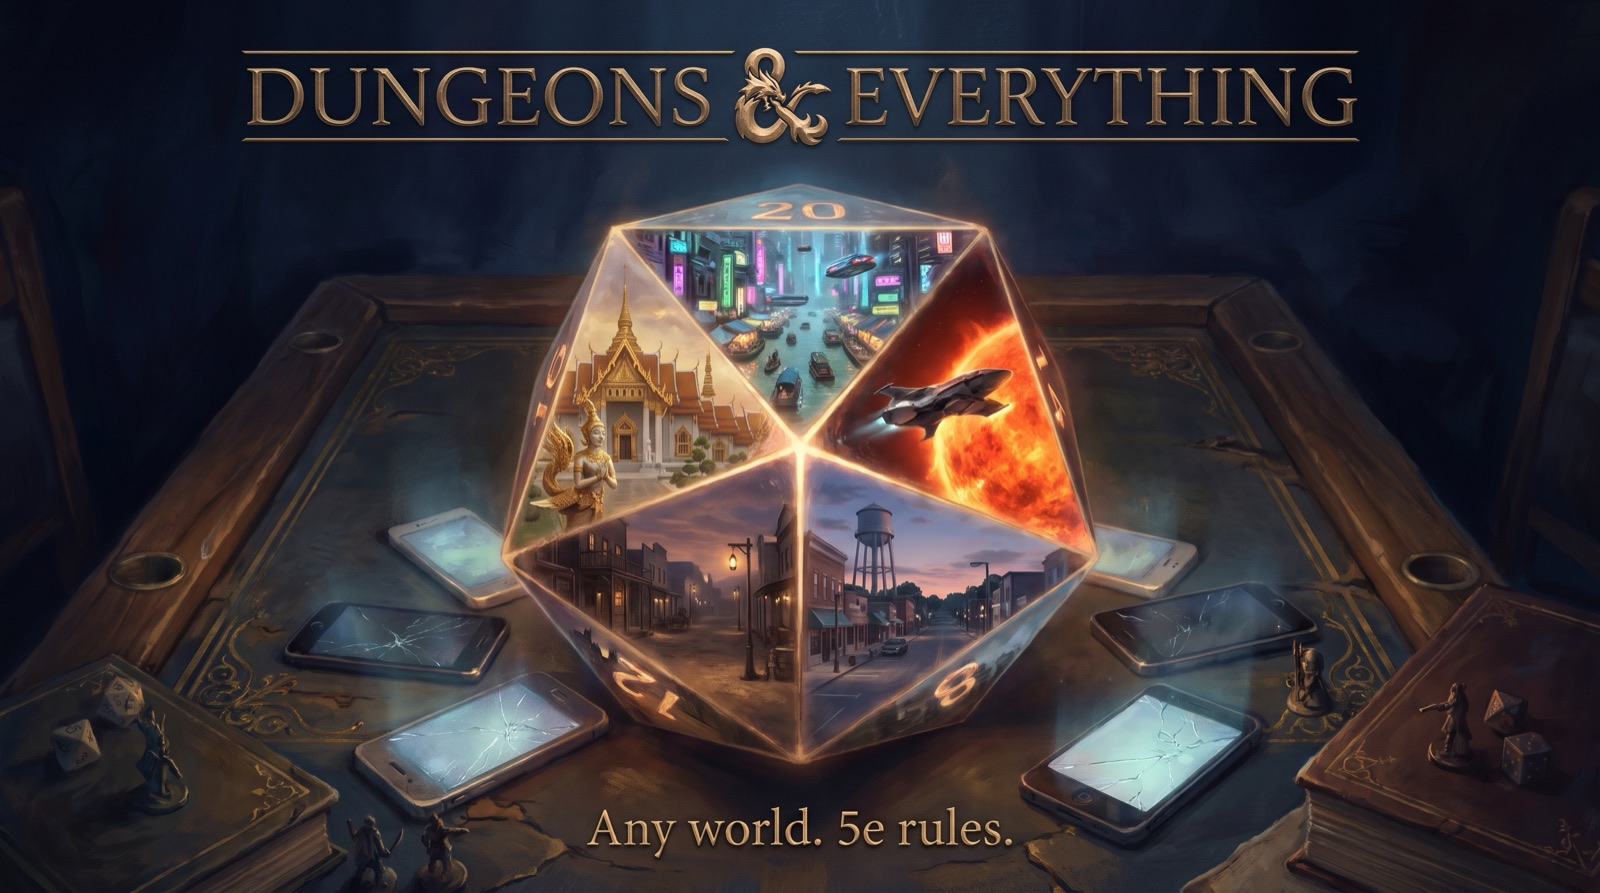
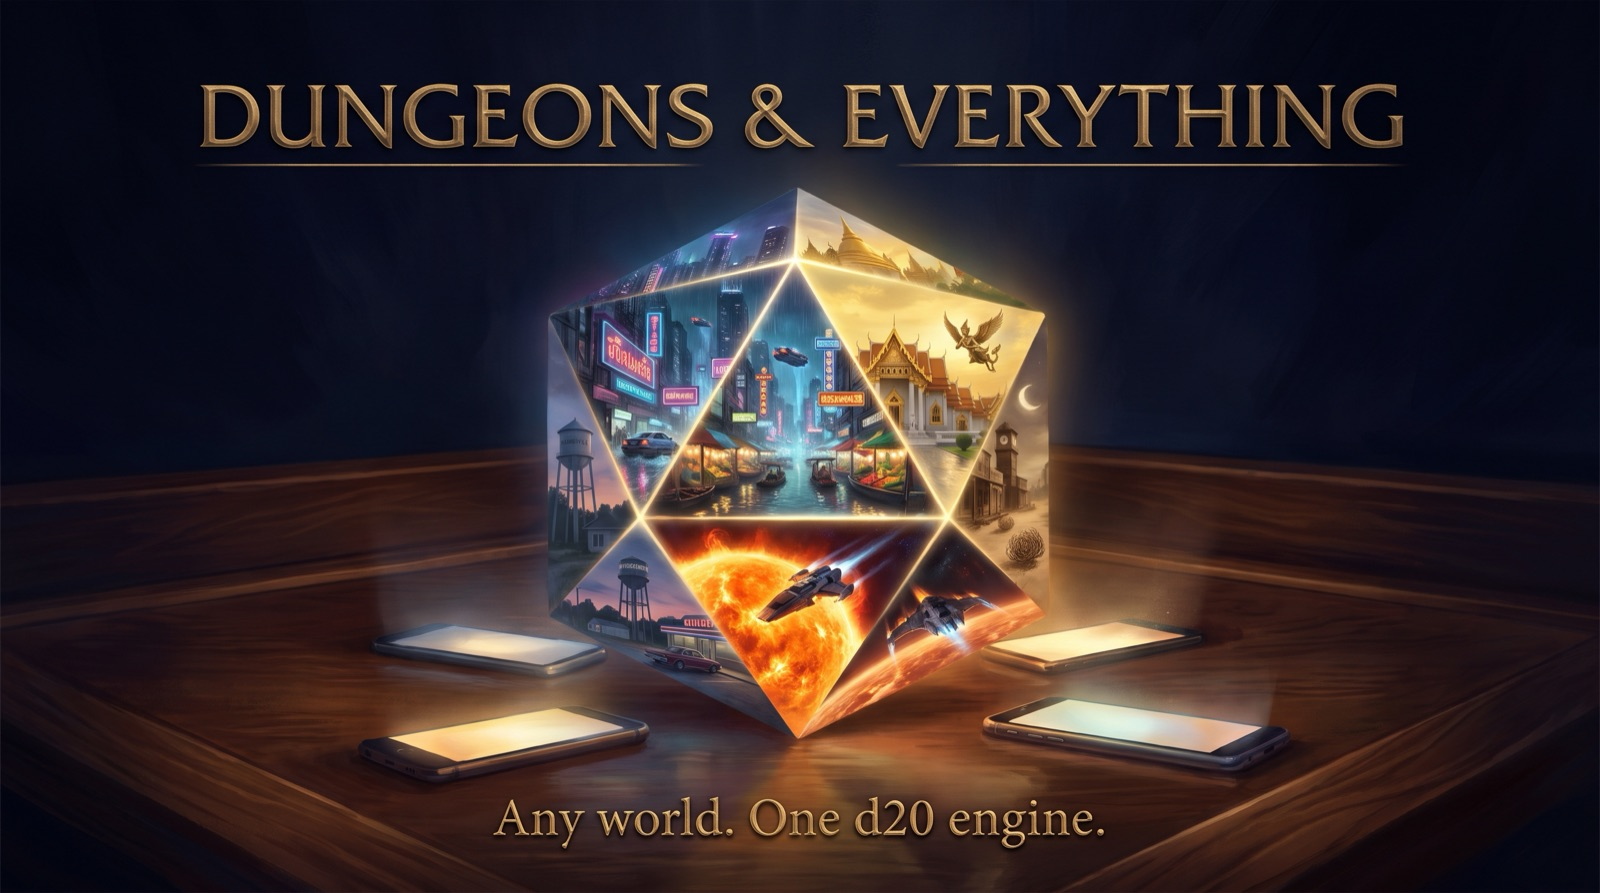
docs: describe the rules as the DnE engine (5e SRD core); new cover; fix(install): native Windows paths in rules blocks

diff --git a/install.py b/install.py
@@ -48,8 +48,8 @@ AGENTS = {
 def rules_block() -> str:
     return (f"{START}\n## Dungeons & Everything (tabletop Game Master)\n"
             f"When the user asks to play Dungeons & Everything, run a tabletop RPG campaign, or types `/dne …`,\n"
-            f"read `{SKILL}/SKILL.md` and follow it exactly. Wherever it writes `${{CLAUDE_SKILL_DIR}}`, use `{SKILL}`.\n"
-            f"Command procedures: `{SKILL}/SKILL-commands.md`; script reference: `{SKILL}/SKILL-scripts.md`.\n{END}\n")
+            f"read `{SKILL / 'SKILL.md'}` and follow it exactly. Wherever it writes `${{CLAUDE_SKILL_DIR}}`, use `{SKILL}`.\n"
+            f"Command procedures: `{SKILL / 'SKILL-commands.md'}`; script reference: `{SKILL / 'SKILL-scripts.md'}`.\n{END}\n")
 
 
 def _strip_block(text: str) -> str:

diff --git a/README.md b/README.md
@@ -16,7 +16,7 @@
 
 ---
 
-**Dungeons & Everything** is a Game Master skill for **any AI coding agent** — Claude Code, Codex, Gemini CLI, Antigravity, opencode, Copilot, Cursor and more. You tell it what world you want to play in — a survivor colony hiding from a rogue AI, a derelict starship, a noir megacity, a classic dungeon — and it builds that world's whole rulebook: who the people are, what jobs they can have, what powers exist, what the gear costs, and what hunts them in the dark. Underneath, every roll is plain **D&D 5e**, so combat, levelling and balance just work.
+**Dungeons & Everything** is a Game Master skill for **any AI coding agent** — Claude Code, Codex, Gemini CLI, Antigravity, opencode, Copilot, Cursor and more. You tell it what world you want to play in — a survivor colony hiding from a rogue AI, a derelict starship, a noir megacity, a classic dungeon — and it builds that world's whole rulebook: who the people are, what jobs they can have, what powers exist, what the gear costs, and what hunts them in the dark. Underneath, every roll runs on the **DnE engine** — a d20 engine with the 5e SRD at its core — so combat, levelling and balance just work, and anything written for 5e still fits.
 
 Campaigns persist for as long as you keep playing. Your TV becomes the story screen; every player's phone becomes their controller.
 
@@ -26,12 +26,12 @@ Campaigns persist for as long as you keep playing. Your TV becomes the story scr
 
 ## Why
 
-Tabletop rules engines are great. Being locked into elves and fireballs is not. Dungeons & Everything keeps the part of 5e that makes a game fair — ability scores, proficiency, hit dice, spell slots, challenge ratings, XP budgets — and lets everything on top of it be whatever your table imagines.
+Tabletop rules engines are great. Being locked into elves and fireballs is not. The DnE engine keeps the part of the 5e SRD that makes a game fair — ability scores, proficiency, hit dice, spell slots, challenge ratings, XP budgets — adds optional rules from other great tables, and lets everything on top of it be whatever your table imagines.
 
 - **Any genre.** Sci-fi, post-apocalyptic, horror, mystery, cyberpunk, western, mythic — or classic fantasy.
-- **A real rulebook per world.** Origins, classes, subclasses, backgrounds, powers, weapons, armor, currency and monsters, all generated for the world and all mechanically legal 5e.
+- **A real rulebook per world.** Origins, classes, subclasses, backgrounds, powers, weapons, armor, currency and monsters, all generated for the world and all mechanically sound on the engine's 5e SRD core.
 - **The world speaks its own language.** Mechanics "run protocols" instead of casting spells, the party "goes into lockdown" instead of taking a long rest, and the skill list says *Systems* instead of *Arcana*.
-- **The best ideas from other tables.** Close misses that succeed at a price, playbook moves and party bonds from Powered by the Apocalypse; tech levels, flaws and reaction rolls from GURPS; degrees of success, Hero Points and Victory Points from Pathfinder 2e — all rebuilt on 5e maths.
+- **The best ideas from other tables.** Close misses that succeed at a price, playbook moves and party bonds from Powered by the Apocalypse; tech levels, flaws and reaction rolls from GURPS; degrees of success, Hero Points and Victory Points from Pathfinder 2e — all rebuilt on the engine's d20 core, each one switchable per campaign.
 - **A Game Master who remembers.** Factions move between sessions, NPCs hold grudges, and a three-act story arc bends around what the players actually do.
 - **Built for the couch.** A cinematic TV display, phones as controllers, spoken narration, Thai and full Unicode support.
 
@@ -62,7 +62,7 @@ The Game Master turns that into `worldkit.json` inside the campaign folder:
 
 Every kit is validated before play, so no monster has the wrong XP and no class has a broken chassis, and every monster is checked against what SRD monsters of its CR typically have. From then on the character builder, the rules lookup, the encounter generator and the table display all read from your world first. Names can be in any script — Thai included.
 
-Say **"classic fantasy"** instead and you get traditional D&D on the bundled 5e SRD.
+Say **"classic fantasy"** instead and you get traditional sword-and-sorcery on the bundled 5e SRD.
 
 The full EDEN kit is at [`skills/dne/templates/worldkit.example.json`](skills/dne/templates/worldkit.example.json).
 
@@ -70,7 +70,7 @@ The full EDEN kit is at [`skills/dne/templates/worldkit.example.json`](skills/dn
 
 <img src="docs/images/rules.jpg" alt="A game master's table: a d20 beside five glowing tokens from red to gold, a chase track, bond and flaw cards, a med kit, hero coins and a notebook of monster numbers" width="100%">
 
-Optional layers borrowed from other games and rebuilt for 5e. They're on the table, not in your way: switch them per campaign.
+Optional layers borrowed from other games and rebuilt on the DnE engine's d20 core. They're on the table, not in your way: switch them per campaign.
 
 | Roll vs DC | Outcome | What happens |
 |---|---|---|
@@ -200,7 +200,7 @@ More detail: [`skills/dne/display/README.md`](skills/dne/display/README.md).
 - **A story with a shape.** Each campaign commits to a three-act arc defined by consequences rather than scripted events, so the story bends to player choices without losing its direction.
 - **NPCs who are people.** Every named character has a motive, a secret, a voice and relationships, and they remember how they were treated.
 - **Fights that make sense.** Encounters are balanced from the world's own bestiary. Enemies fight to their role, retreat when broken, and never conjure resources they don't have. A tactical grid appears only when a fight needs one.
-- **5e 2014 or 2024.** Choose the rules edition per campaign.
+- **SRD 5.1 or 5.2 core.** Choose the 2014 or 2024 rules per campaign; the table rules sit on top of either.
 
 ## For developers
 
@@ -219,7 +219,7 @@ See [CONTRIBUTING.md](CONTRIBUTING.md) and [CHANGELOG.md](CHANGELOG.md).
 
 ## ภาษาไทย
 
-**Dungeons & Everything** คือ AI Game Master ที่ใช้ได้กับ AI agent ทุกตัว (Claude Code, Codex, Gemini CLI, Antigravity, opencode, Copilot, Cursor ฯลฯ) และไม่จำกัดอยู่แค่โลกแฟนตาซี — เล่าโลกที่อยากเล่นได้เลย จะเป็นไซไฟ หลังวันสิ้นโลก สยองขวัญ หรือสืบสวน แล้ว AI จะสร้างโครงสร้างของโลกใบนั้นให้ครบ ทั้งเผ่า อาชีพ สายย่อย พลังพิเศษ อุปกรณ์ สกุลเงิน และสัตว์ประหลาด โดยทุกอย่างยังอิงกฎ D&D 5e จึงต่อสู้ เลเวลอัป และบาลานซ์ได้ถูกต้อง
+**Dungeons & Everything** คือ AI Game Master ที่ใช้ได้กับ AI agent ทุกตัว (Claude Code, Codex, Gemini CLI, Antigravity, opencode, Copilot, Cursor ฯลฯ) และไม่จำกัดอยู่แค่โลกแฟนตาซี — เล่าโลกที่อยากเล่นได้เลย จะเป็นไซไฟ หลังวันสิ้นโลก สยองขวัญ หรือสืบสวน แล้ว AI จะสร้างโครงสร้างของโลกใบนั้นให้ครบ ทั้งเผ่า อาชีพ สายย่อย พลังพิเศษ อุปกรณ์ สกุลเงิน และสัตว์ประหลาด โดยทุกอย่างรันบน DnE engine — เอนจิน d20 ที่มีแกนกฎจาก 5e SRD และมีกฎเสริมจากเกมอื่นให้เปิดใช้ได้ — จึงต่อสู้ เลเวลอัป และบาลานซ์ได้ถูกต้อง
 
 - ติดตั้ง: `git clone` repo แล้วรัน `python3 install.py` — ตั้งค่าให้ทุก agent ที่เจอในเครื่องในครั้งเดียว
 - เริ่มเกม: `/dne new <ชื่อแคมเปญ>` แล้วเล่าโลกของคุณ

diff --git a/CHANGELOG.md b/CHANGELOG.md
@@ -8,7 +8,11 @@ The installed version is in the `VERSION` file at the repo root. Run `/dne updat
 
 ## [Unreleased]
 
-### Added — Table rules (ideas from PbtA, GURPS and Pathfinder 2e, rebuilt for 5e)
+**The DnE engine.** From this release the rules engine is our own: a d20 engine whose core is the 5e
+SRD (5.1 and 5.2, still fully compatible — every new rule is optional and switched per campaign), with
+table rules layered on top that come from other games' ideas and our own numbers.
+
+### Added — Table rules (ideas from PbtA, GURPS and Pathfinder 2e, rebuilt on the 5e SRD core)
 - **One roll, five outcomes.** `dice.py --dc` on a check or save now prints critical success · success ·
   **success at a cost** (1–4 short) · failure · critical failure; a natural 20/1 shifts it a step.
   Attacks and death saves keep their 5e rules. New DM Standard 15, *Every Roll Moves the Story*:
@@ -32,6 +36,9 @@ The installed version is in the `VERSION` file at the repo root. Run `/dne updat
 - Rules reference: `skills/dne/SKILL-table-rules.md`. No rules text from those games is copied.
 
 ### Changed
+- **Wording: the DnE engine.** The README now describes the rules as the DnE engine — a d20 engine
+  with the 5e SRD at its core — instead of "plain D&D 5e"; the cover reads *Any world. One d20 engine.*
+  The SRD credit (CC BY 4.0) is unchanged.
 - **README:** new Table rules and Play together sections, World Kit rows for moves, quick builds,
   flaws and tech level, the Plain display, and five new images (the five play-tested worlds on the cover
   and in the strip, the Plain table display, a table-rules spread).
@@ -42,6 +49,10 @@ The installed version is in the `VERSION` file at the repo root. Run `/dne updat
   input stays a compact bottom bar; the controller textarea no longer runs past the panel edge.
 
 ### Fixed
+- **`install.py` on Windows and non-UTF-8 consoles** no longer crashes printing `→` (cp1252 / ASCII);
+  it writes UTF-8 like the skill's scripts. On Windows the rules block it writes now uses native paths
+  (`D:\\…\\skills\\dne\\SKILL.md`) instead of mixing `\\` and `/`. CI: tests that need Thai file names or arguments skip only
+  where the OS can't represent them (the ASCII-locale job); the rest still run there.
 - **Thai on the display:** vowels and tone marks no longer float or sink. The fantasy faces (Cinzel,
   IM Fell, Syne, Newsreader) have no Thai, so every font stack now carries Noto Serif Thai / Noto Sans Thai
   for Thai text only (English keeps its fantasy face), and once Thai text appears the page turns
